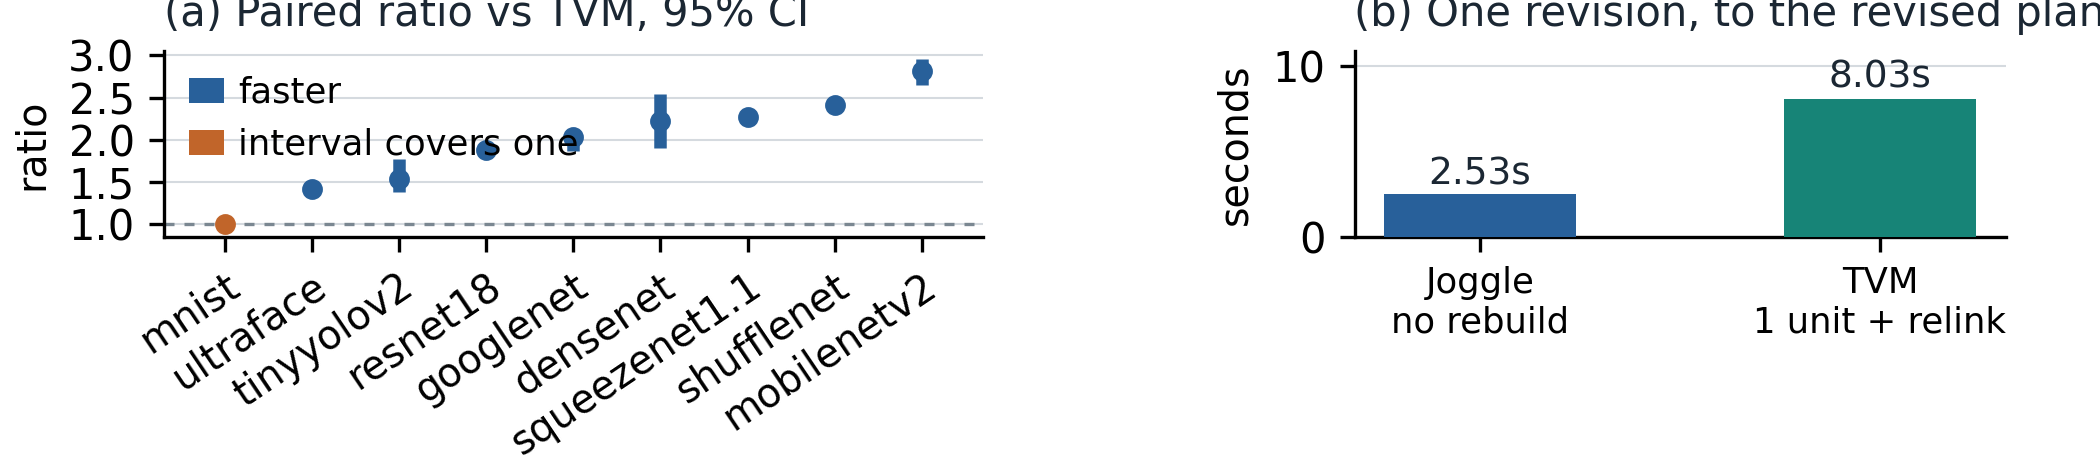
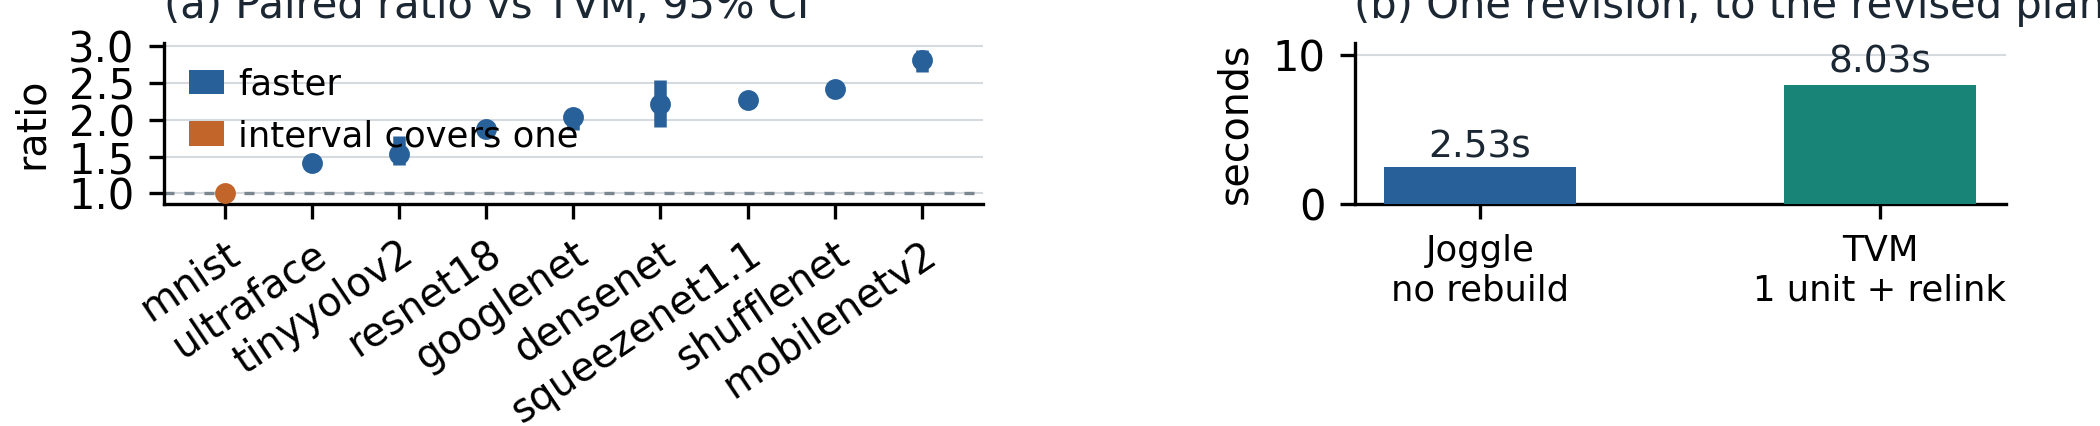
Answer the overclaiming audit
The abstract's patch claim was unsupported. It said a structurally addressed
derivation reproduces the validated plan "where a textual patch cannot be applied
at all", and the paper's own control falsifies the unconditional reading: of the two
patch-defeating refactorings, one is derived where the patch fails and the other
fails on both sides, which the body already concedes. The qualifier is gone from
the abstract and the body carries it.

The timed ONNX Runtime column now says what it measured. It had been described only
as predating a reference correction, which is honest but leaves out the important
part: it ran with ONNX Runtime's graph optimisation at its default level, which
fuses the graph, so it reports a different numerical path from the reference every
other verdict is measured against, and it was not re-timed.

Two omissions are now stated rather than implied. The runtime-comparison sentence
is scoped to the campaign, since three later diagnostics ran on shared Linux
runners and each names its host where reported, and the list of what is not
measured now includes the agent study that would test the motivating scenario:
it is pre-registered but not run.

Fitting these cost height in the two stacked sub-figures, which keep their type
sizes because they are displayed at their design width. The consistency script's
agent check was also too coarse -- it forbade the phrase "or an agent", which the
[…]

diff --git a/paper/submission/main.tex b/paper/submission/main.tex
@@ -26,8 +26,8 @@ derived with its private helper closure, a single internal decision revised, and
 the resulting copy executed on a separate subject while the original remains
 callable and verified. The compiler validates each revision and can roll it back,
 so a derived procedure remains reproducible. A structurally addressed derivation also
-reproduces the validated plan where a textual patch cannot be applied at all, so
-a user can propose revisions with the same tools. Across widely used models, one source-defined locality policy
+reproduces the validated plan where a textual patch cannot be applied, so a user
+can propose revisions with the same tools. Across widely used models, one source-defined locality policy
 reduces the run time of generated code on each of them, by $1.44\times$ to
 $3.22\times$. It requires no compiler rebuild and matches or beats TVM's
 unscheduled C target wherever that lowering could be built and validated.
@@ -637,14 +637,16 @@ The studies have different units. Derivation uses a fixed prepared UltraFace
 program and local correctness checks; the extension tasks use a fixed
 Conv--Add--Relu chain and shared oracles, so they bound a layout-and-ABI
 composition study rather than a general co-design result. Coverage aggregates
-revision-tagged records rather than forming a benchmark, and runtime comparisons
-use one-thread controls with 20 balanced fresh-process trials per system on one
-Apple M4 host running macOS 15.7.3.
+revision-tagged records rather than forming a benchmark, and the campaign's runtime
+comparisons use one-thread controls with 20 balanced fresh-process trials per
+system on one Apple M4 host running macOS 15.7.3. Diagnostics reported later ran
+on shared Linux runners, and each names its host.
 Every comparison names its revision: Joggle at \texttt{27b37c75}, TVM v0.26.0 at
 \texttt{c7b458e9}, and ONNX-MLIR 0.4.2 at \texttt{4a13c34a} against LLVM
 \texttt{1053047a}. Different jobs and
-revisions remain separate, and no result below measures developer productivity
-or dataset-level accuracy.
+revisions remain separate, and no result below measures developer productivity,
+dataset-level accuracy, or an agent authoring a revision: that study is
+pre-registered but not run.
 
 \paragraph{Which system answers which question.}
 One system is present for each axis it can carry, and a gap is stated rather
@@ -901,8 +903,9 @@ $1.01\times$, interval $[0.94, 1.06]$. Every artifact is admitted only if it sta
 the study's $10^{-4}$ tolerance of a reference ONNX Runtime produces with graph
 optimisation disabled, so the reference is the graph as written rather than an
 integer kernel fused from it, the largest error observed being $2.00\times10^{-5}$
-on TinyYOLOv2 under ONNX-MLIR. The timed ONNX Runtime column predates that
-correction and was not re-run. The variants differ only in the policy, so this
+on TinyYOLOv2 under ONNX-MLIR. The timed ONNX Runtime column ran with graph
+optimisation at its default level, which fuses that graph, and was not re-timed
+after the correction. The variants differ only in the policy, so this
 measures the reach of one source-defined rule rather than per-model tuning.
 
 \begin{figure*}[t]

diff --git a/paper/scripts/check_consistency.py b/paper/scripts/check_consistency.py
@@ -58,7 +58,9 @@ check("per-expansion cost is stated", has("435\\,ms"))
 check("no quadratic claim survives", not has("quadratic"))
 check("no semantic-line proxy survives", not has("8{,}118"))
 check("no pre-QDQ count survives", not has("of which eleven"))
-check("no agent experiment is claimed", not has("or an agent"))
+check("no agent experiment is claimed",
+      not has("we measure an agent") and not has("an agent improves")
+      and has("that study is\npre-registered but not run"))
 
 failed = [(n, d) for n, ok, d in CHECKS if not ok]
 for name, ok, detail in CHECKS:

diff --git a/paper/scripts/render_evidence.py b/paper/scripts/render_evidence.py
@@ -50,9 +50,9 @@ def compile_series():
 def main():
     plt.rcParams.update({"font.family": "DejaVu Sans", "font.size": SIZE,
                          "pdf.fonttype": 42, "figure.dpi": 150})
-    fig = plt.figure(figsize=(7.0, 1.55))
-    left = fig.add_axes([.078, .490, .390, .400])
-    right = fig.add_axes([.645, .490, .310, .400])
+    fig = plt.figure(figsize=(7.0, 1.42))
+    left = fig.add_axes([.078, .520, .390, .380])
+    right = fig.add_axes([.645, .520, .310, .380])
 
     # (a) paired ratio against TVM, vertical intervals.
     rows = paired_rows()

diff --git a/paper/scripts/render_runtime.py b/paper/scripts/render_runtime.py
@@ -108,8 +108,8 @@ def main():
     order.sort(key=lambda m: runs[m]["locality"]["median"])
     order += [m for m in pinned() if m not in runs]
 
-    fig = plt.figure(figsize=(7, 2.25))
-    ax = fig.add_axes([.062, .470, .870, .385])
+    fig = plt.figure(figsize=(7, 2.05))
+    ax = fig.add_axes([.062, .500, .870, .360])
 
     for index, model in enumerate(order):
         variants = runs.get(model)
